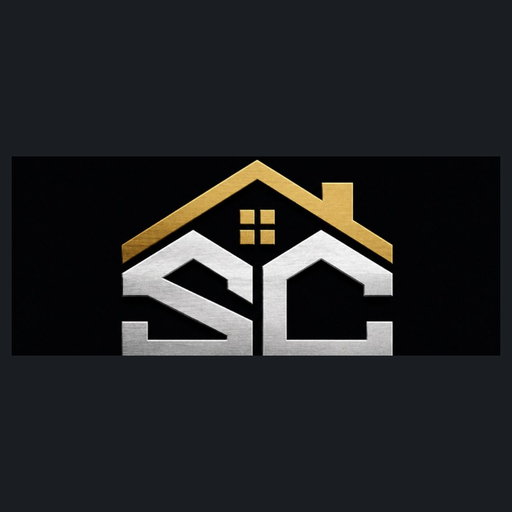
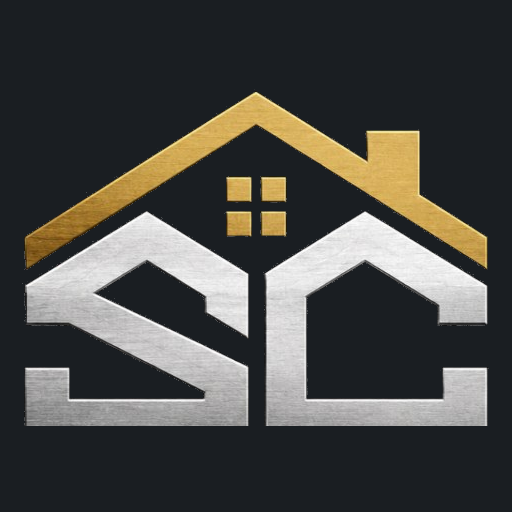
fix: sit printed card photo and unclip the phone header
Hero is the lockup photo on #1A1E22, not an HTML twin. Logo crop is
transparent. Header shows Call Joel in full; Ahren stays in the dock.

diff --git a/components/card-lockup.tsx b/components/card-lockup.tsx
@@ -1,43 +1,17 @@
-import { BrandMark } from "@/components/brand-mark"
-import { Wordmark } from "@/components/wordmark"
-import { people, site } from "@/lib/site"
+import Image from "next/image"
+
+import { marks, site } from "@/lib/site"
 
 export function CardLockup() {
   return (
-    <article className="w-full max-w-[22rem] bg-card px-5 py-6 text-ink ring-1 ring-gold">
-      <div className="flex items-start justify-between gap-3">
-        {people.map((person) => (
-          <a
-            key={person.phoneTel}
-            href={person.phoneTel}
-            className="text-left leading-tight"
-          >
-            <span className="block text-[0.7rem] font-semibold uppercase tracking-[0.12em]">
-              {person.name}
-            </span>
-            <span className="mt-1 block text-[0.7rem] font-medium tracking-wide text-mute">
-              {person.phoneCard}
-            </span>
-          </a>
-        ))}
-      </div>
-
-      <div className="mt-7 flex flex-col items-center">
-        <BrandMark priority className="h-[4.5rem] w-auto sm:h-20" />
-        <div className="mt-4">
-          <Wordmark />
-        </div>
-      </div>
-
-      <p className="mt-8 text-center text-[0.7rem] font-semibold uppercase tracking-[0.22em] text-ink">
-        {site.spanish}
-      </p>
-      <a
-        href={site.emailMailto}
-        className="mt-2 block text-center text-[0.65rem] font-semibold uppercase tracking-[0.14em] text-ink"
-      >
-        {site.email}
-      </a>
-    </article>
+    <Image
+      src={marks.cardLockup}
+      alt={site.legalName}
+      width={832}
+      height={620}
+      className="h-auto w-full max-w-md bg-ground"
+      unoptimized
+      priority
+    />
   )
 }

diff --git a/components/site-header.tsx b/components/site-header.tsx
@@ -15,25 +15,21 @@ export function SiteHeader() {
   return (
     <header className="sticky top-0 z-40 border-b border-gold/70 bg-ground">
       <div className="mx-auto flex max-w-5xl items-center justify-between gap-3 px-4 py-2">
-        <Link href="/" className="flex min-h-12 shrink-0 items-center gap-2">
-          <BrandMark priority className="h-12 w-auto" />
+        <Link href="/" className="flex h-11 shrink-0 items-center">
+          <BrandMark priority className="h-10 w-auto" />
           <span className="sr-only">{site.legalName}</span>
         </Link>
-        <p className="min-w-0 flex-1 text-[10px] font-semibold uppercase tracking-[0.14em] text-gold sm:text-xs">
-          {site.spanish}
-        </p>
-        <div className="flex shrink-0 items-center gap-2">
+        <div className="flex min-w-0 shrink items-center justify-end gap-2">
           <a
             href={joel.phoneTel}
-            className="cta cta-call px-3"
+            className="cta cta-call max-w-full px-3 whitespace-nowrap"
             style={{ minHeight: "2.6rem", fontSize: "1.05rem" }}
           >
-            <span className="md:hidden">{joel.dock}</span>
-            <span className="hidden md:inline">{joel.cta}</span>
+            {joel.cta}
           </a>
           <a
             href={ahren.phoneTel}
-            className="cta cta-call max-md:hidden px-3"
+            className="cta cta-call max-md:hidden px-3 whitespace-nowrap"
             style={{ minHeight: "2.6rem", fontSize: "1.05rem" }}
           >
             {ahren.cta}

diff --git a/app/globals.css b/app/globals.css
@@ -120,6 +120,8 @@
   display: inline-flex;
   align-items: center;
   justify-content: center;
+  box-sizing: border-box;
+  max-width: 100%;
   min-height: 3.25rem;
   padding: 0.45rem 1.1rem;
   font-family: "Big Shoulders Display", ui-sans-serif, system-ui, sans-serif;

diff --git a/components/brand-mark.tsx b/components/brand-mark.tsx
@@ -13,7 +13,7 @@ export function BrandMark({
     <Image
       src={marks.logoMark}
       alt={site.legalName}
-      width={834}
+      width={479}
       height={340}
       className={`object-contain ${className}`}
       unoptimized

diff --git a/lib/site.ts b/lib/site.ts
@@ -66,6 +66,6 @@ export const workPhotos = [
 export const marks = {
   logoMark: "/logo-mark.png",
   logoTile: "/logo-tile.png",
-  cardLockup: "/card-lockup.jpg",
+  cardLockup: "/card-front.png",
   og: "/og.png",
 } as const

diff --git a/scripts/knock-card.py b/scripts/knock-card.py
@@ -1,0 +1,84 @@
+#!/usr/bin/env python3
+"""Knock black boxes out of the printed-card crops.
+
+Reads public/card-lockup.jpg (source lockup) and writes:
+- public/logo-mark.png — SC + house, transparent
+- public/card-front.png — printed lockup on #1A1E22
+- favicons / og on #1A1E22
+"""
+
+from __future__ import annotations
+
+from pathlib import Path
+
+import numpy as np
+from PIL import Image
+
+ROOT = Path(__file__).resolve().parents[1]
+PUBLIC = ROOT / "public"
+GROUND = (26, 30, 34, 255)
+
+
+def knock_out(src: Path, *, pad: int, thresh: int) -> Image.Image:
+    rgb = np.array(Image.open(src).convert("RGB"))
+    lum = rgb.mean(axis=2)
+    alpha = np.clip((lum - (thresh - 4)) / 8.0, 0, 1)
+    alpha = (alpha * 255).astype(np.uint8)
+    ys, xs = np.where(alpha > 20)
+    x0, x1 = max(0, int(xs.min()) - pad), min(rgb.shape[1], int(xs.max()) + 1 + pad)
+    y0, y1 = max(0, int(ys.min()) - pad), min(rgb.shape[0], int(ys.max()) + 1 + pad)
+    rgba = np.dstack([rgb[y0:y1, x0:x1], alpha[y0:y1, x0:x1]])
+    return Image.fromarray(rgba, "RGBA")
+
+
+def fit_square(src: Image.Image, size: int) -> Image.Image:
+    canvas = Image.new("RGBA", (size, size), GROUND)
+    fitted = src.copy()
+    fitted.thumbnail((size - 4, size - 4), Image.Resampling.LANCZOS)
+    canvas.paste(fitted, ((size - fitted.size[0]) // 2, (size - fitted.size[1]) // 2), fitted)
+    return canvas
+
+
+def main() -> None:
+    lockup = PUBLIC / "card-lockup.jpg"
+    mark_src = PUBLIC / "logo-mark.png"
+    source = lockup if lockup.exists() else mark_src
+
+    mark = knock_out(source if source == mark_src else lockup, pad=6, thresh=16)
+    # Prefer the dedicated mark crop when present.
+    if (PUBLIC / "_mark-source.png").exists():
+        mark = knock_out(PUBLIC / "_mark-source.png", pad=6, thresh=16)
+    elif (PUBLIC / "logo-mark.png").exists() and source == lockup:
+        # Recrop from the current mark file if it is already the house only.
+        trial = knock_out(PUBLIC / "logo-mark.png", pad=6, thresh=16)
+        if trial.size[0] < 700:
+            mark = trial
+
+    mark.save(PUBLIC / "logo-mark.png", "PNG")
+
+    tile = Image.new("RGBA", (512, 512), GROUND)
+    placed = mark.copy()
+    placed.thumbnail((420, 420), Image.Resampling.LANCZOS)
+    tile.paste(placed, ((512 - placed.size[0]) // 2, (512 - placed.size[1]) // 2), placed)
+    tile.save(PUBLIC / "logo-tile.png", "PNG")
+
+    hero = knock_out(lockup, pad=12, thresh=14)
+    plate = Image.new("RGBA", hero.size, GROUND)
+    plate = Image.alpha_composite(plate, hero)
+    plate.save(PUBLIC / "card-front.png", "PNG")
+
+    fit_square(mark, 512).save(PUBLIC / "icon-512.png")
+    fit_square(mark, 180).save(PUBLIC / "apple-touch-icon.png")
+    fit_square(mark, 32).save(PUBLIC / "favicon-32.png")
+    ico = fit_square(mark, 32)
+    ico.save(PUBLIC / "favicon.ico", sizes=[(16, 16), (32, 32)])
+
+    og = Image.new("RGBA", (1200, 630), GROUND)
+    lock = plate.copy()
+    lock.thumbnail((1100, 560), Image.Resampling.LANCZOS)
+    og.paste(lock, ((1200 - lock.size[0]) // 2, (630 - lock.size[1]) // 2), lock)
+    og.save(PUBLIC / "og.png")
+
+
+if __name__ == "__main__":
+    main()

diff --git a/README.md b/README.md
@@ -56,7 +56,8 @@ No street. No town. No CCB. No hours. No star scores. No Georgia copy. Do not pr
 Ground `#1A1E22`. Card `#212426`. Ink `#F3F1EC`. Gold `#DCB368`. Mute `#7C8387`.
 Big Shoulders Display + Libre Franklin.
 
-- Hero is the printed card (table knocked out): SC + house, SOLID white / CRAFT gold, Joel and Ahren, Hablamos español, email
-- `public/logo-mark.png` — SC + house crop for chrome
-- `public/logo-tile.png` — same mark on a charcoal tile
+- Hero is the printed card photo (`public/card-front.png`) on `#1A1E22`. No HTML card twin.
+- `public/logo-mark.png` — SC + house crop, transparent, no black box
+- `public/logo-tile.png` — same mark on ground `#1A1E22`
+- Mobile header: Call Joel fully visible. Ahren in the dock/footer. Hablamos español on the card + footer.
 - Work stack: three amateur job shots only — Decks, Siding, Decks. No porch photo.
